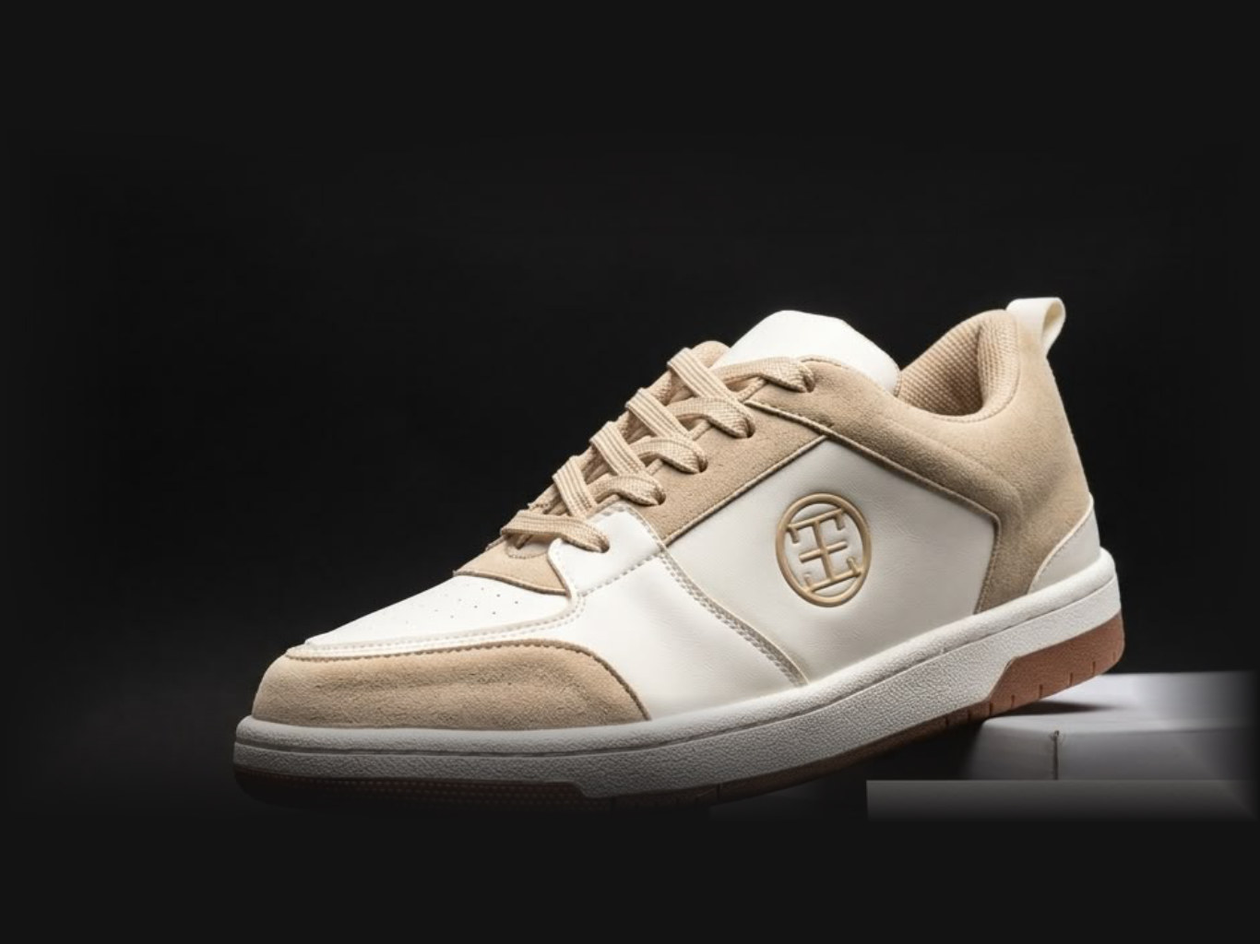
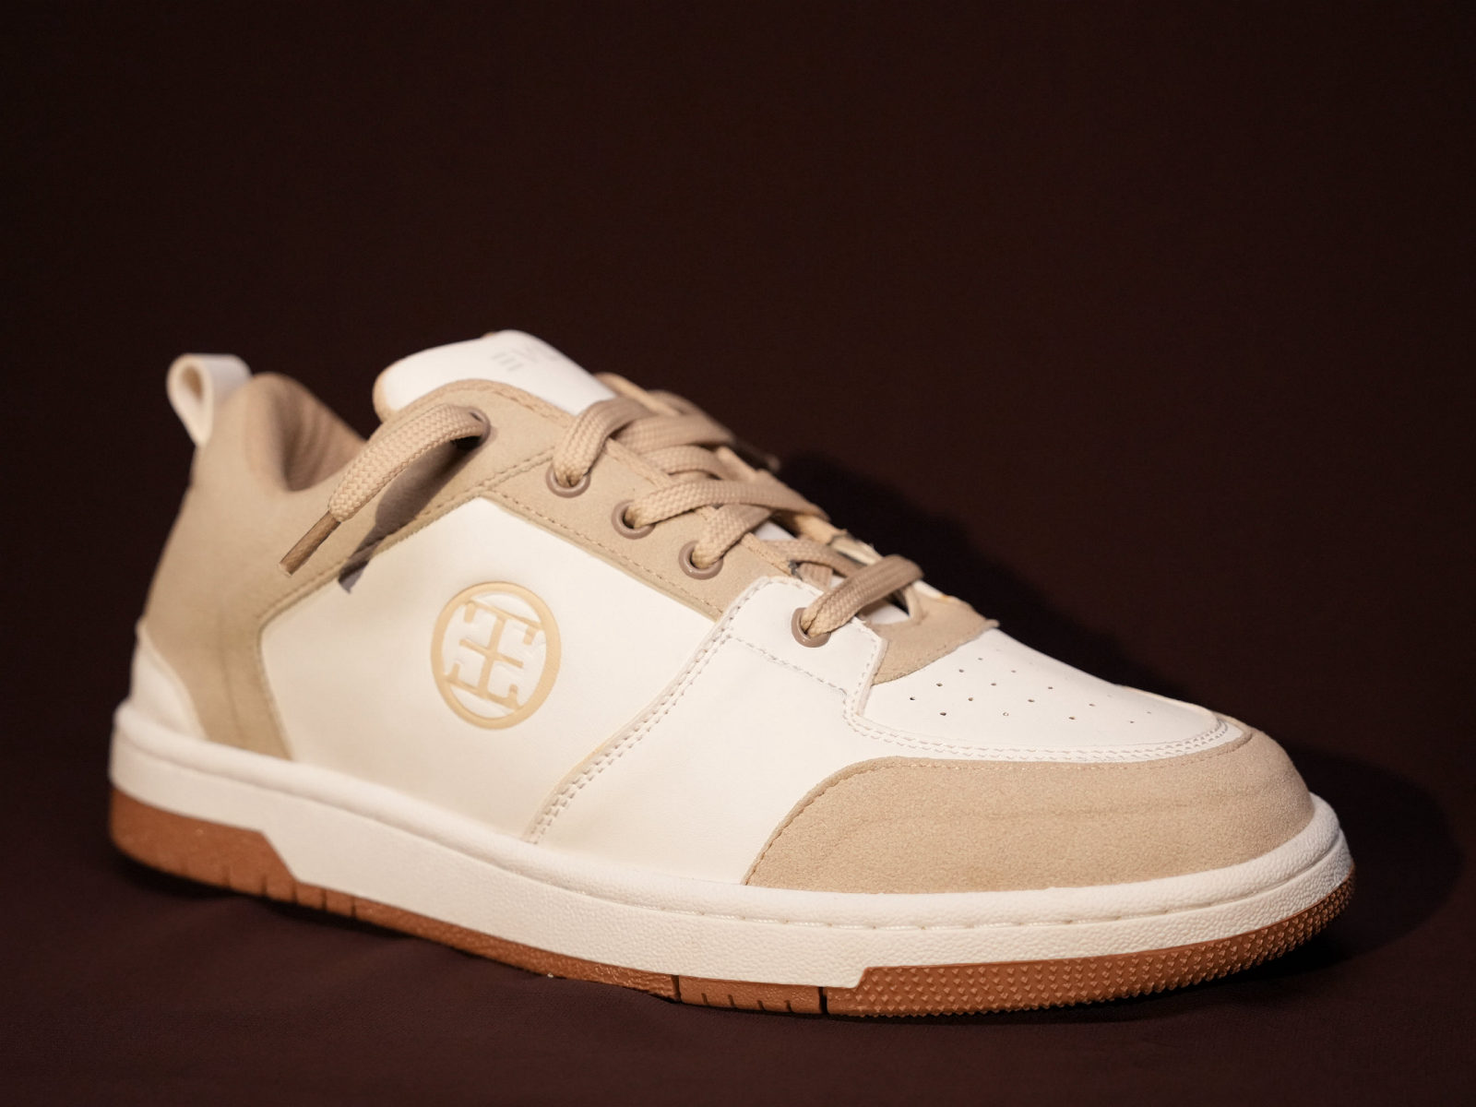
Real photography: shoe imagery from the brand's own photo shoot
- 16-photo shoot (both models, COMEBACK card, box): 3000 px masters in
  docs/brand/campaign/, raw camera files git-ignored
- build-shoe-images.js rewritten: 10 crops replaced, 8 new (heels, held,
  from above, COMEBACK card, box), true colour, crop only
- demo-image pools, sizes in film, pair story, drop grid and drop hero
- new social sharing image; docs and SPEC v1.16

diff --git a/tools/build-shoe-images.js b/tools/build-shoe-images.js
@@ -1,64 +1,42 @@
-// Build EvlveX shoe imagery from the campaign photos in docs/brand/campaign/ (see docs/brand/shoe-images.md).
-// Photos are used in true colour: this script only crops them (and, for the 4:5 cards and the wide hero, places a
-// crop on a matching dark studio canvas). Crops leave out the "Thank you" cards' small print and the corner marks.
-// Usage: node tools/build-shoe-images.js <campaignDir> <assetsDir> <node_modules dir that contains jimp>
+// Build EvlveX shoe imagery from the photo-shoot masters in docs/brand/campaign/ (see docs/brand/shoe-images.md).
+// Photos are used in true colour: this script only crops and resizes them, it never changes colour.
+// Masters are 3000 px on the long edge (3000×2000 landscape, 2000×3000 portrait, sg-duo 3000×2210).
+// Usage: node tools/build-shoe-images.js <campaignDir> <assetsDir> <node_modules dir that contains jimp 0.x>
 const path = require('path');
 const [, , srcDir, assets, nm] = process.argv;
 const Jimp = require(path.join(nm, 'jimp'));
 
-// Place a photo on a canvas of one colour, feathering the photo's edges into it.
-function onCanvas(photo, W, H, color, feather) {
-  const canvas = new Jimp(W, H, Jimp.rgbaToInt(...color, 255));
-  const p = photo.clone().scaleToFit(W, H);
-  const ox = Math.round((W - p.bitmap.width) / 2), oy = Math.round((H - p.bitmap.height) / 2);
-  const pw = p.bitmap.width, ph = p.bitmap.height, pd = p.bitmap.data, cd = canvas.bitmap.data;
-  for (let y = 0; y < ph; y++) for (let x = 0; x < pw; x++) {
-    const edgeDist = Math.min(x, y, pw - 1 - x, ph - 1 - y);
-    const a = Math.min(1, edgeDist / feather);
-    const s = (y * pw + x) * 4, t = ((y + oy) * W + (x + ox)) * 4;
-    for (let c = 0; c < 3; c++) cd[t + c] = Math.round(pd[s + c] * a + color[c] * (1 - a));
-  }
-  return canvas;
-}
-
-// Average colour of a photo's top band (the studio backdrop; lower edges can hold props), so a canvas matches it.
-function edgeColour(img, band = 24) {
-  const { width: w, height: h, data } = img.bitmap;
-  const sum = [0, 0, 0];
-  let n = 0;
-  for (let y = 0; y < h; y++) for (let x = 0; x < w; x++) {
-    if (y >= band) continue;
-    const i = (y * w + x) * 4;
-    sum[0] += data[i]; sum[1] += data[i + 1]; sum[2] += data[i + 2]; n++;
-  }
-  return sum.map((v) => Math.round(v / n));
-}
-
-const crop = (img, x, y, w, h) => img.clone().crop(x, y, w, h);
-const save = (img, name, q = 88) => img.quality(q).writeAsync(path.join(assets, name)).then(() => console.log('✔', name, img.bitmap.width + 'x' + img.bitmap.height));
+const read = (f) => Jimp.read(path.join(srcDir, f + '.jpg'));
+// Crop (x, y, w, h in master pixels), then resize to the output width; height follows the crop's ratio.
+const shot = (img, [x, y, w, h], outW) => img.clone().crop(x, y, w, h).resize(outW, Jimp.AUTO, Jimp.RESIZE_BICUBIC);
+const full = (img, outW) => img.clone().resize(outW, Jimp.AUTO, Jimp.RESIZE_BICUBIC);
+const save = (img, name, q = 82) =>
+  img.quality(q).writeAsync(path.join(assets, name)).then(() => console.log('✔', name, img.bitmap.width + 'x' + img.bitmap.height));
 
 (async () => {
-  const read = (f) => Jimp.read(path.join(srcDir, f));
-  const grindPair = await read('silent-grind-pair.jpg'); // two Silent Grind shoes, dark grey studio
-  const freshStand = await read('fresh-start-stand.jpg'); // A Fresh Start on an acrylic stand
-  const collage = await read('collage-unboxing.jpg'); // 7 panels (3 columns), unboxing scenes
-  const triptych = await read('triptych-satin.jpg'); // 3 panels on grey satin
+  // The Silent Grind (black)
+  const sgSide = await read('sg-side'); // side profile, white monogram, grey backdrop
+  await save(full(sgSide, 1600), 'evx-sg-full.jpg'); // 1600×1067
+  await save(shot(sgSide, [850, 760, 1000, 1120], 1000), 'evx-sg-monogram.jpg'); // embroidered monogram
+  await save(shot(await read('sg-front'), [0, 500, 2000, 2500], 1200), 'evx-sg-card.jpg'); // 3/4 front, 4:5
+  await save(full(await read('sg-sole'), 1600), 'evx-sg-sole.jpg'); // heel and outsole
+  await save(full(await read('sg-heel'), 1600), 'evx-sg-heel.jpg'); // NEVER GIVE UP heel
+  await save(shot(await read('sg-hold'), [0, 500, 2000, 2500], 1200), 'evx-sg-hold.jpg'); // held to the chest, 4:5
+  await save(shot(await read('sg-duo'), [26, 0, 2947, 2210], 1600), 'evx-sg-duo.jpg'); // top + side on black/white, 4:3
 
-  // The Silent Grind
-  const sgFull = crop(grindPair, 70, 105, 960, 720); // both floating shoes; leaves out the corner mark
-  await save(sgFull.clone(), 'evx-sg-full.jpg');
-  await save(onCanvas(sgFull, 1024, 1280, edgeColour(sgFull), 120), 'evx-sg-card.jpg');
-  await save(crop(collage, 403, 450, 397, 445), 'evx-sg-monogram.jpg'); // close-up with feathers
-  await save(crop(triptych, 802, 130, 392, 490), 'evx-sg-sole.jpg'); // in the navy box; card left out
+  // A Fresh Start (cream and sand)
+  const fsSide = await read('fs-side'); // 3/4 side, embossed monogram, warm brown backdrop
+  await save(shot(fsSide, [0, 312, 3000, 1688], 1600), 'evx-fs-full.jpg'); // 16:9
+  await save(shot(fsSide, [210, 0, 2667, 2000], 1600), 'evx-fs-wide.jpg'); // 4:3
+  await save(shot(fsSide, [580, 785, 1000, 760], 1000), 'evx-fs-monogram.jpg'); // embossed monogram
+  await save(shot(await read('fs-front'), [0, 500, 2000, 2500], 1200), 'evx-fs-card.jpg'); // toe-forward, 4:5
+  await save(full(await read('fs-top'), 1000), 'evx-fs-laces.jpg'); // top-down laces and tongue, 2:3
+  await save(full(await read('fs-heel'), 1600), 'evx-fs-heel.jpg'); // NEVER GIVE UP heel
 
-  // A Fresh Start
-  const fsFull = crop(freshStand, 150, 40, 950, 530); // shoe on the stand; card text and corner mark left out
-  await save(fsFull.clone(), 'evx-fs-full.jpg');
-  await save(onCanvas(fsFull, 1366, 1024, edgeColour(fsFull), 140), 'evx-fs-wide.jpg');
-  await save(onCanvas(fsFull, 1024, 1280, edgeColour(fsFull), 120), 'evx-fs-card.jpg');
-  await save(crop(collage, 805, 0, 389, 295), 'evx-fs-monogram.jpg'); // in the black box
-  await save(crop(triptych, 0, 100, 397, 460), 'evx-fs-laces.jpg'); // in the cream box on feathers
-
-  // COMEBACK: both shoes together
-  await save(crop(collage, 0, 0, 399, 445), 'evx-comeback-pair.jpg'); // both pairs with their boxes
+  // COMEBACK: both models, the card and the box
+  await save(full(await read('pair-card'), 1600), 'evx-comeback-pair.jpg'); // both shoes with the COMEBACK card
+  await save(full(await read('card-comeback'), 1600), 'evx-comeback-card.jpg'); // COMEBACK Series-01 card
+  await save(full(await read('box-front'), 1600), 'evx-box.jpg'); // box on satin, front-lit
+  await save(full(await read('box-angle'), 1600), 'evx-box-angle.jpg'); // box at an angle, low light
+  await save(full(await read('box-streak'), 1600), 'evx-box-streak.jpg'); // box lid in a streak of light
 })().catch((e) => { console.error(e); process.exit(1); });

diff --git a/docs/brand/social/share.html b/docs/brand/social/share.html
@@ -27,11 +27,10 @@
   .photos { display: grid; grid-template-columns: 1fr 1fr; }
   .photo { position: relative; overflow: hidden; }
   .photo img { width: 100%; height: 100%; display: block; object-fit: cover; }
-  .sg img { object-position: 50% 50%; }
-  /* A Fresh Start: 950×530 photo drawn at 840×469 so the whole shoe fits the 600×432 half; the card corner
-     (bottom right of the original) falls outside the visible window. */
-  .fs { background: #0b0b0b; }
-  .fs img { position: absolute; width: 800px; height: 447px; max-width: none; left: -128px; top: -10px; object-fit: fill; }
+  /* The Silent Grind fills the frame edge to edge: show it at full width, pinned to the bottom, on its backdrop colour. */
+  .sg { background: rgb(214, 227, 241); }
+  .sg img { position: absolute; bottom: 0; height: auto; -webkit-mask-image: linear-gradient(to bottom, transparent 0, #000 60px); mask-image: linear-gradient(to bottom, transparent 0, #000 60px); }
+  .fs img { object-position: 50% 55%; }
   .photo::after { content: ''; position: absolute; left: 0; right: 0; bottom: 0; height: 110px;
     background: linear-gradient(to bottom, rgba(11,11,11,0), rgba(11,11,11,0.88)); }
   .label { z-index: 1; }
@@ -54,7 +53,7 @@
     </div>
     <div class="photos">
       <div class="photo sg"><img src="../../../assets/evx-sg-full.jpg" alt=""><span class="label">The Silent Grind</span></div>
-      <div class="photo fs"><img src="../../../assets/evx-fs-full.jpg" alt=""><span class="label">A Fresh Start</span></div>
+      <div class="photo fs"><img src="../../../assets/evx-fs-wide.jpg" alt=""><span class="label">A Fresh Start</span></div>
     </div>
     <div class="divider"></div>
   </div>

diff --git a/docs/brand/shoe-images.md b/docs/brand/shoe-images.md
@@ -2,39 +2,69 @@
 
 **Audience:** theme developers and the store owner.
 
-The site's own shoe imagery comes from four colour studio photos of the COMEBACK models (`docs/brand/campaign/`, supplied 15 Nov 2026, 1195×896 each). The site design is black and white; **the shoe photography is always true colour**.
+All shoe imagery comes from the brand's own photo shoot of the COMEBACK models (supplied 27 Nov 2026, 16 photos, 7008×4672). The site design is white, sand and black; **the photography is always true colour**: it is only cropped and resized, never recoloured. The Silent Grind was shot on a cool grey backdrop and A Fresh Start on warm brown; both are kept as shot.
 
-| Original | What it shows |
-|---|---|
-| `silent-grind-pair.jpg` | two Silent Grind shoes floating, dark grey studio |
-| `fresh-start-stand.jpg` | A Fresh Start on a black acrylic stand, beside a thank-you card |
-| `collage-unboxing.jpg` | 7 panels: both pairs with boxes, unboxing scenes, feathers |
-| `triptych-satin.jpg` | 3 panels on grey satin: A Fresh Start in a cream box, both pairs, The Silent Grind in a navy box |
+## Sources
+The raw camera files sit in `docs/brand/campaign/raw/`. That folder is git-ignored (15–22 MB each), so keep a copy elsewhere. Committed **masters** (3000 px on the long edge, q85) sit in `docs/brand/campaign/`:
 
-`tools/build-shoe-images.js` **only crops** them; it never changes colour. The 4:5 cards and the wide hero place a crop on a canvas that matches the studio backdrop. Every crop leaves out the thank-you cards' small print and the corner marks in the originals.
+| Master | Camera file | What it shows |
+|---|---|---|
+| `sg-side.jpg` | DSC08928 | The Silent Grind, side profile, embroidered white monogram |
+| `sg-front.jpg` | DSC08930 | The Silent Grind, 3/4 front, EVLVEX on the tongue (portrait) |
+| `sg-other-side.jpg` | DSC08932 | The Silent Grind, inner side (no monogram) |
+| `sg-heel.jpg` | DSC08936 | The Silent Grind heel, *NEVER GIVE UP* |
+| `sg-sole.jpg` | DSC08937 | The Silent Grind heel and outsole |
+| `sg-hold.jpg` | DSC08416 | The Silent Grind held to the chest (portrait) |
+| `sg-duo.jpg` | DSC08407 | The Silent Grind from above and from the side; the yellow strip at the right edge is cropped off |
+| `fs-side.jpg` | DSC08890 | A Fresh Start, 3/4 side, embossed monogram, gum sole |
+| `fs-front.jpg` | DSC08892 | A Fresh Start, toe forward (portrait) |
+| `fs-top.jpg` | DSC08894 | A Fresh Start from above, laces and tongue (portrait) |
+| `fs-heel.jpg` | DSC08897 | A Fresh Start heel, *NEVER GIVE UP* |
+| `pair-card.jpg` | DSC08452 | both models with the *COMEBACK Series-01* card between them |
+| `card-comeback.jpg` | DSC08446 | the *COMEBACK Series-01* card in front of the boxes |
+| `box-front.jpg` | DSC08967 | the black EvlveX box on satin, front-lit |
+| `box-angle.jpg` | DSC08957 | the box at an angle, low light |
+| `box-streak.jpg` | DSC08976 | the box lid in a streak of light |
 
-| Asset | Size | Crop | Used for |
+## Site crops
+`tools/build-shoe-images.js` makes these from the masters (q82, all under 250 KB):
+
+| Asset | Size | From | Used for |
 |---|---|---|---|
-| `evx-sg-full.jpg` | 960×720 | silent-grind-pair, both shoes | film, hero, editorial |
-| `evx-sg-card.jpg` | 1024×1280 | the same on a 4:5 studio canvas | product cards, product page |
-| `evx-sg-monogram.jpg` | 397×445 | collage, bottom middle: close-up with feathers | film detail |
-| `evx-sg-sole.jpg` | 392×490 | triptych, right: in the navy velvet box | film texture shot, lifestyle |
-| `evx-fs-full.jpg` | 950×530 | fresh-start-stand, shoe on the stand | film, lifestyle |
-| `evx-fs-wide.jpg` | 1366×1024 | the same on a wide studio canvas | hero, editorial |
-| `evx-fs-card.jpg` | 1024×1280 | the same on a 4:5 studio canvas | product cards, product page |
-| `evx-fs-monogram.jpg` | 389×295 | collage, top right: in the black box | film detail, articles |
-| `evx-fs-laces.jpg` | 397×460 | triptych, left: in the cream box on feathers | film texture shot, lifestyle |
-| `evx-comeback-pair.jpg` | 399×445 | collage, top left: both pairs with their boxes | film backdrop, collection cards |
+| `evx-sg-full.jpg` | 1600×1067 | sg-side, full frame | film, hero, editorial, articles |
+| `evx-sg-card.jpg` | 1200×1500 | sg-front, 4:5 | product cards, drop hero/grid |
+| `evx-sg-monogram.jpg` | 1000×1120 | sg-side, the monogram | film detail, chapter inset |
+| `evx-sg-sole.jpg` | 1600×1067 | sg-sole | film texture shot, atelier |
+| `evx-sg-heel.jpg` | 1600×1067 | sg-heel | atelier, articles, chapter inset |
+| `evx-sg-hold.jpg` | 1200×1500 | sg-hold, 4:5 | lifestyle, editorial |
+| `evx-sg-duo.jpg` | 1600×1200 | sg-duo, 4:3 | hero, lifestyle |
+| `evx-fs-full.jpg` | 1600×900 | fs-side, 16:9 | film, lifestyle |
+| `evx-fs-wide.jpg` | 1600×1200 | fs-side, 4:3 | hero, editorial, pair story |
+| `evx-fs-card.jpg` | 1200×1500 | fs-front, 4:5 | product cards, drop hero/grid |
+| `evx-fs-monogram.jpg` | 1000×760 | fs-side, the monogram | film detail, chapter inset |
+| `evx-fs-laces.jpg` | 1000×1500 | fs-top, full frame | film texture shot, lifestyle |
+| `evx-fs-heel.jpg` | 1600×1067 | fs-heel | atelier, chapter inset |
+| `evx-comeback-pair.jpg` | 1600×1067 | pair-card | film backdrop, hero, collection cards |
+| `evx-comeback-card.jpg` | 1600×1067 | card-comeback | articles |
+| `evx-box.jpg` | 1600×1067 | box-front | atelier, collection cards |
+| `evx-box-angle.jpg` | 1600×1067 | box-angle | spare |
+| `evx-box-streak.jpg` | 1600×1067 | box-streak | articles |
 
-**Social sharing image** (`docs/brand/social/evlvex-share-1200x628.png`, also `assets/evx-share.png`): 1200×628. The monogram, wordmark and *COMEBACK · Limited edition* and *Original designs · Made in India · Numbered pairs* sit across the top, with `evx-sg-full.jpg` and `evx-fs-full.jpg` side by side below. Upload it in Admin → Online Store → Preferences → *Social sharing image*. The theme also uses it for pages without their own image (`snippets/meta-tags.liquid`). To rebuild it, edit `docs/brand/social/share.html` and screenshot it at 1200×628, for example with `msedge --headless=new --window-size=1200,628 --screenshot=out.png share.html`.
+If a crop's size changes, update the sizes in `snippets/evlvex-demo-image.liquid`, `sections/evlvex-comeback-film.liquid` (shot list and the "both" frames), `sections/evlvex-pair-story.liquid`, `sections/evlvex-drop-grid.liquid` and `sections/evlvex-drop-hero.liquid`.
 
-If a crop's size changes, update the sizes in `sections/evlvex-comeback-film.liquid` (shot list and the "both" frames) and `snippets/evlvex-demo-image.liquid`.
+`snippets/evlvex-demo-image.liquid` picks from these by kind wherever no image has been chosen in the theme editor. Its `shoe` filter keeps only `evx-sg-*` or `evx-fs-*` crops, so each story chapter shows only its own model. Theme settings → **EvlveX → Show demo photography** switches them off.
 
-`snippets/evlvex-demo-image.liquid` picks from these by kind wherever no image has been chosen. Turn this off at launch in Theme settings → **EvlveX → Show demo photography**.
+## Product galleries (Admin)
+Uploaded 27 Nov 2026 from the masters, with alt text:
+- **The Silent Grind:** sg-side, sg-front, sg-other-side, sg-heel, sg-sole, sg-hold, sg-duo, pair-card
+- **A Fresh Start:** fs-side, fs-front, fs-top, fs-heel, pair-card
 
-**Rebuild** (needs `jimp` 0.x installed somewhere):
+## Social sharing image
+`docs/brand/social/evlvex-share-1200x628.png`, also `assets/evx-share.png`: 1200×628. The monogram, wordmark, *COMEBACK · Limited edition* and *Original designs · Made in India · Numbered pairs* run across the top. Below them, `evx-sg-full.jpg` and `evx-fs-wide.jpg` sit side by side. The theme uses it for pages without their own image (`snippets/meta-tags.liquid`); you can also upload it in Admin → Online Store → Preferences → *Social sharing image*. To rebuild it, edit `docs/brand/social/share.html` and screenshot it at 1200×628, for example with `msedge --headless=new --window-size=1200,628 --screenshot=out.png share.html`.
+
+## Rebuild
+Needs `jimp` 0.x (`npm i jimp@0.22.12` in any folder).
 ```
 node tools/build-shoe-images.js docs/brand/campaign assets <node_modules folder containing jimp>
 ```
-
-**For launch:** these originals are about 1200 px wide. For full-width heroes, use the same shots at 3000 px or more and upload them in Shopify (products, collections, and each COMEBACK film scene's *Image*) rather than rebuilding these assets. The earlier phone photos stay in `docs/brand/shoes/` for reference.
+To make new masters from raw camera files, resize each to 3000 px on the long edge. jpeg-js needs `maxMemoryUsageInMB: 2048` to decode 33-megapixel files.

diff --git a/docs/SPEC.md b/docs/SPEC.md
@@ -73,7 +73,7 @@ The website must:
 | 1 | ~~Original logo files~~ **Done 12 Nov 2026:** in `docs/brand/logos/`, traced to SVG in the theme | Brand | — |
 | 2 | Create the two products with size variants, prices, materials and care text; confirm the materials (genuine leather and suede, or synthetic). Until then the site says only "smooth upper, textured overlays, padded collar, stitched cupsole" and never "leather" or "suede" (decided 20 Nov 2026) | Brand | products, product tabs, removing sample prices |
 | 3 | ~~Approve the model stories~~ **Done 13 Nov 2026:** COMEBACK, The Silent Grind, A Fresh Start (brand text, used word for word) | Brand / copy | — |
-| 4 | Studio photography of both models at 3000 px or more. The site uses crops of the 1195 px campaign photos until then ([shoe-images.md](brand/shoe-images.md)) | Brand / photographer | every page, COMEBACK film |
+| 4 | ~~Studio photography~~ **Done 27 Nov 2026:** a 16-photo shoot of both models, the COMEBACK card and the box (7008×4672). 3000 px masters and site crops are in [shoe-images.md](brand/shoe-images.md); both product galleries were uploaded in Admin | — | — |
 | 5 | ~~Confirm brand claims~~ **Done 20 Nov 2026:** shoes are factory-made, so every "handmade", "artisan", "signed" and "workshop card" claim was removed; "numbered, certified, registered to you" stay (the certificate system is real). Positioning and word rules: [brand-and-content.md §4](spec/brand-and-content.md). **Shipping and returns decided 15 Nov 2026:** free shipping across India, prepaid only, 7-day returns and size exchange ([docs/policies/](policies/README.md)) | Brand | launch |
 | 6 | ~~Artisan consent~~ **Not needed:** factory-made, artisans are not named (20 Nov 2026) | — | — |
 | 7 | ~~Workshop card~~ **Dropped 20 Nov 2026:** no workshop card (factory-made) | — | — |
@@ -104,6 +104,7 @@ The website must:
 | v1.13 | 25 Nov 2026 | Simpler copy: every fact said once per page, in short lines: one announcement (free shipping · 7-day size exchange); the ticker tape becomes a mood line (COMEBACK ✦ Every pair has a story ✦ Make your comeback); shorter Standard, manifesto and authenticity texts; product cards show colourway and sizes only; product assurance chips no longer repeat free shipping; About keeps only the name, the belief, the main concept and the closing essay |
 | v1.14 | 26 Nov 2026 | Refined look: calm and professional: white and warm sand (#F3EEE6) surfaces, black for actions and dark bands (no other accent colour), sand hairlines instead of thick black frames, one font (Archivo) at a restrained scale, plain text menu, straight slim tape, no grid paper or stickers. The home hero keeps the giant half-outlined word behind the tilted card, on sand. Product page: assurance lines use Dawn's icon-with-text block (the custom block was refused by Shopify); the full product template is live for the first time. `tools/validate-templates.js` now also flags block ids that equal a section id |
 | **v1.15** | **27 Nov 2026** | **Automatic tag assignment:** the system picks the QR tag, not the packer. For each new order, `npm run autopack` (GitHub Actions, every 30 min, free) reserves a free tag of the same model and UK size and emails staff "Pack #1001 → EVX-…". The serial also goes on the order's tags and in its *Pack serials* metafield. The buyer's name goes on the certificate only once the order is **fulfilled**; a cancelled order releases its tag. `assign` stays as the manual fallback. Admin steps: [deployment.md §3](spec/deployment.md); behaviour: [qr-tooling.md §5](spec/qr-tooling.md) |
+| v1.16 | 27 Nov 2026 | Real photography: the site's shoe images come from the brand's own 16-photo shoot (both models, the COMEBACK card and the box) and replace the earlier campaign images. 3000 px masters are in `docs/brand/campaign/` (the raw camera files stay out of git). There are 18 site crops, 8 of them new: the *NEVER GIVE UP* heel of each model, the Silent Grind held to the chest and from above, the COMEBACK card and the box. Story chapter insets show each model's own heel. The product galleries in Admin hold the new photos (8 for The Silent Grind, 5 for A Fresh Start). New social sharing image |
 
 Files changed per version are listed where they belong: theme [theme.md §6](spec/theme.md), QR tooling [qr-tooling.md §6](spec/qr-tooling.md).
 

diff --git a/docs/spec/theme.md b/docs/spec/theme.md
@@ -140,6 +140,7 @@ v1.1, v1.2 (13 Nov 2026), v1.3 and v1.4, v1.5 and v1.6 (15 Nov 2026) and v1.7 (1
 | About & Story literature (v1.10) | new `sections/evlvex-opener.liquid` (cinematic opener: eyebrow, display heading, definition, lead text, bold statement, chapter links, monogram and ghost watermark) and `sections/evlvex-chapter.liquid` (editorial chapter: full-bleed photo with inset detail photo, outlined chapter number, lead, story, closing statement, buttons, anchor), styles in new `assets/evlvex-editorial.css`; `snippets/evlvex-demo-image.liquid` gets a `shoe` parameter so a chapter always shows its own model; `templates/page.stories.json` and `templates/page.about.json` rebuilt with them |
 | Light film & wordmark header (v1.11) | `snippets/evlvex-logo.liquid` (new `mark` parameter), `sections/header.liquid` (wordmark only), `assets/evlvex-luxury.css` (word-only sizes); `sections/evlvex-comeback-film.liquid` (settings *Light scenes: Background, top left / bottom right*, `is-light` set server-side), `assets/evlvex-comeback-film.css` (light gradient, light gaps during the 3D turn, softer shadows and backdrop), `templates/index.json` (all scenes Light) |
 | Street Drop (v1.12) | new `assets/evlvex-street.css` (all Street Drop styles, incl. header pill menu and product page), `assets/evlvex-drop-hero.js`, `assets/archivo-street.woff2` (Archivo variable, SIL OFL, latin; declared as *Archivo Street* in `layout/theme.liquid`, which also adds the body class `evx-t-<template>`); new sections `evlvex-drop-hero`, `evlvex-tape`, `evlvex-drop-grid`, `evlvex-standard`, `evlvex-manifesto`, `evlvex-authenticity`, `evlvex-pair-story`; `sections/main-product.liquid` block *EvlveX assurance* (`snippets/evlvex-assurance.liquid`); `templates/index.json` and `templates/product.json` rebuilt. The COMEBACK film, opener/chapter, featured-collection and related-products sections stay in the theme, unused on these two templates |
+| Real photography (v1.16) | `tools/build-shoe-images.js` rewritten for the shoot masters; `assets/evx-*.jpg` (10 replaced, 8 new); `snippets/evlvex-demo-image.liquid` (sizes, alt text, pools); sizes in `sections/evlvex-comeback-film.liquid`, `evlvex-pair-story.liquid`, `evlvex-drop-grid.liquid`, `evlvex-drop-hero.liquid`; `assets/evx-share.png` |
 | Refined look (v1.14) | `assets/evlvex-street.css` rewritten (sand + black, one type scale, hero big word kept); `config/settings_data.json` scheme 2 sand, scheme 4 sand line; `templates/product.json` assurance via icon-with-text; `sections/evlvex-drop-grid.liquid` card label, `sections/evlvex-pair-story.liquid` sand band; `snippets/evlvex-assurance.liquid` removed |
 | Simpler copy (v1.13) | text only: `sections/header-group.json` (one announcement), `templates/index.json`, `templates/product.json`, `templates/page.about.json` (four steps and chapter sections removed) |
 | Copy | `templates/index.json`, `product.json`, `page.about.json`, `page.care.json`, `page.authenticity.json`, `collection.json`, `sections/header-group.json` (mega menu), `sections/footer-group.json`, `sections/main-404.liquid`, brand text in `config/settings_data.json` |
